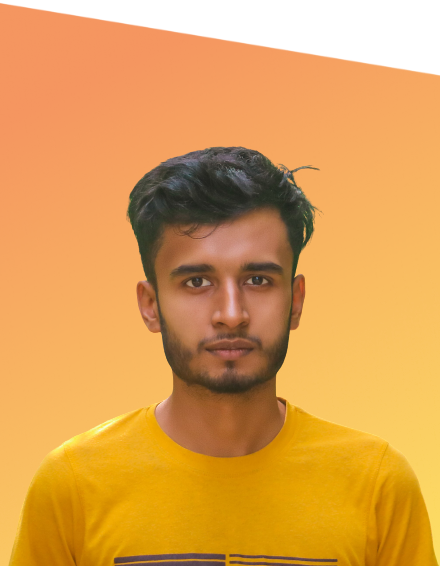
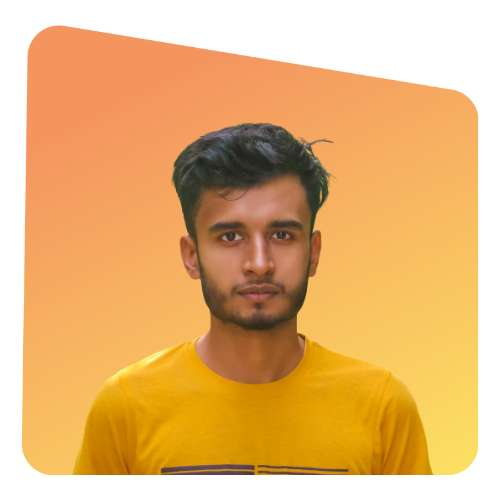
new img

diff --git a/index.html b/index.html
@@ -23,7 +23,7 @@
             <p class="top">Lorem ipsum, dolor sit amet consectetur adipisicing elit.</p>
         </div>
         <div class="half-width">
-            <img src="images/person/person-0.png" alt="">
+            <img src="images/person/person-2.png" alt="">
         </div>
     </section>
     <section id="sion">
@@ -87,7 +87,7 @@
         <h1 style="text-align: center;">Build <span class="SandyBrown">Corona Application</span></h1>
         <div class="build">
             <div class="width-half">
-                <img src="images/pictures/app.png" alt="">
+                <img src="images/naeem.png" alt="">
             </div>
             <div id="go" class="width-half">
                 <h1>Stay safe with <br>Go<span class="SandyBrown">Corona.</span></h1>

diff --git a/style.css b/style.css
@@ -11,7 +11,7 @@ body{
     margin-left: 3%;
 }
 .half-width img{
-    width: 70%;
+    width: 80%;
 }
 .width-four h2{
     font-size: 45px;
@@ -31,7 +31,9 @@ body{
    border-left: 4px solid tomato;
    font-size: 60px;
    height: 135px;
-   border-radius: 5px;
+   border-bottom-left-radius: 5px;
+   border-top-left-radius: 5px;
+   box-sizing: border-box;
 }
 .stay h1{
     font-size: 50px;
@@ -131,7 +133,7 @@ footer h2{
     margin-bottom: 50px;
 }
 .width-half img{
-    width: 50%;
+    width: 80%;
     position: center;
 }
 .app{
